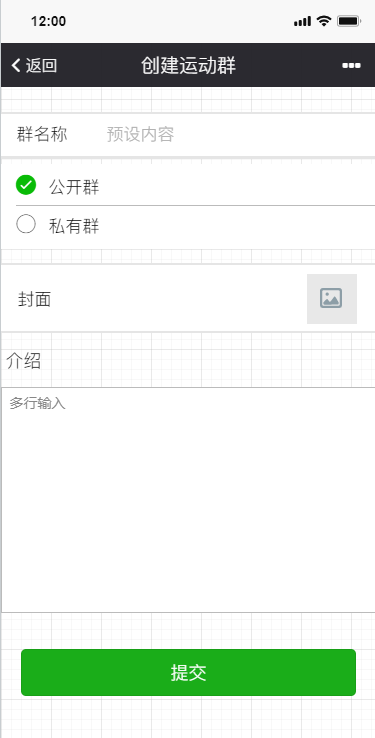
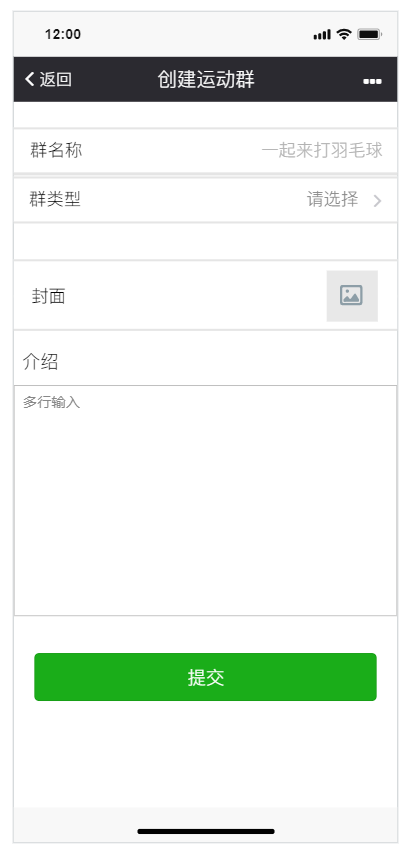
添加原型图与小部分文字修改

diff --git a/建群和发布活动.md b/建群和发布活动.md
@@ -41,15 +41,14 @@
 
 字段名称 | 可选项 | 规则
 ----- | -----  | -----
-活动名称 | 无     | 不能为空，不能超过20个字
 活动开始时间 | 日历选项     | 不能早于现在的时间
 活动结束时间 | 日历选项     | 不能早于现在的时间，并且不能早于活动开始时间
 报名截止时间   | 日历选项 | 不能早于现在的时间，并且不能晚于活动开始时间
 飞机截止时间   | 日历选项 | 不能早于现在的时间，并且不能晚于活动开始时间
 人数   | 无     | 不能小于1
 地点   | 无     |
-费用类型   | AA,人均固定    |
-是否需要活动开始前缴费   | 是,否    |
-人均固定费用   | 无    |
+费用类型   | AA,固定费用   |
 飞机费用   | AA,固定费用     |
 描述   | 无     |
+
+![发布活动](./images/发布活动.png)

diff --git a/群管理与群活动管理.md b/群管理与群活动管理.md
@@ -2,6 +2,9 @@
 
 ## 成员管理
 
-# 群活动管理
+成员管理是群管理的日常事务之一，群主可以通过邀请成员加入群，同时也可以移除成员到群组外。
+成员被移除群组外后，该成员如果正处于报名活动的状态，该次活动报名也同时会被移除
 
-## 名单管理
+## 活动名单管理
+
+## 群费用管理

diff --git a/发现群与参与活动.md b/发现群与参与活动.md
@@ -7,6 +7,8 @@
 1. 系统内发现（小程序、app等途径），包含有`首页活动广场`、`群内活动列表`、`场馆活动列表`
 2. 通过分享活动的链接发现活动
 
+![通过群发现活动](./images/通过群发现活动.png)
+
 ## 报名活动
 
 通过点击发现的活动可以进入活动详情页进行报名
